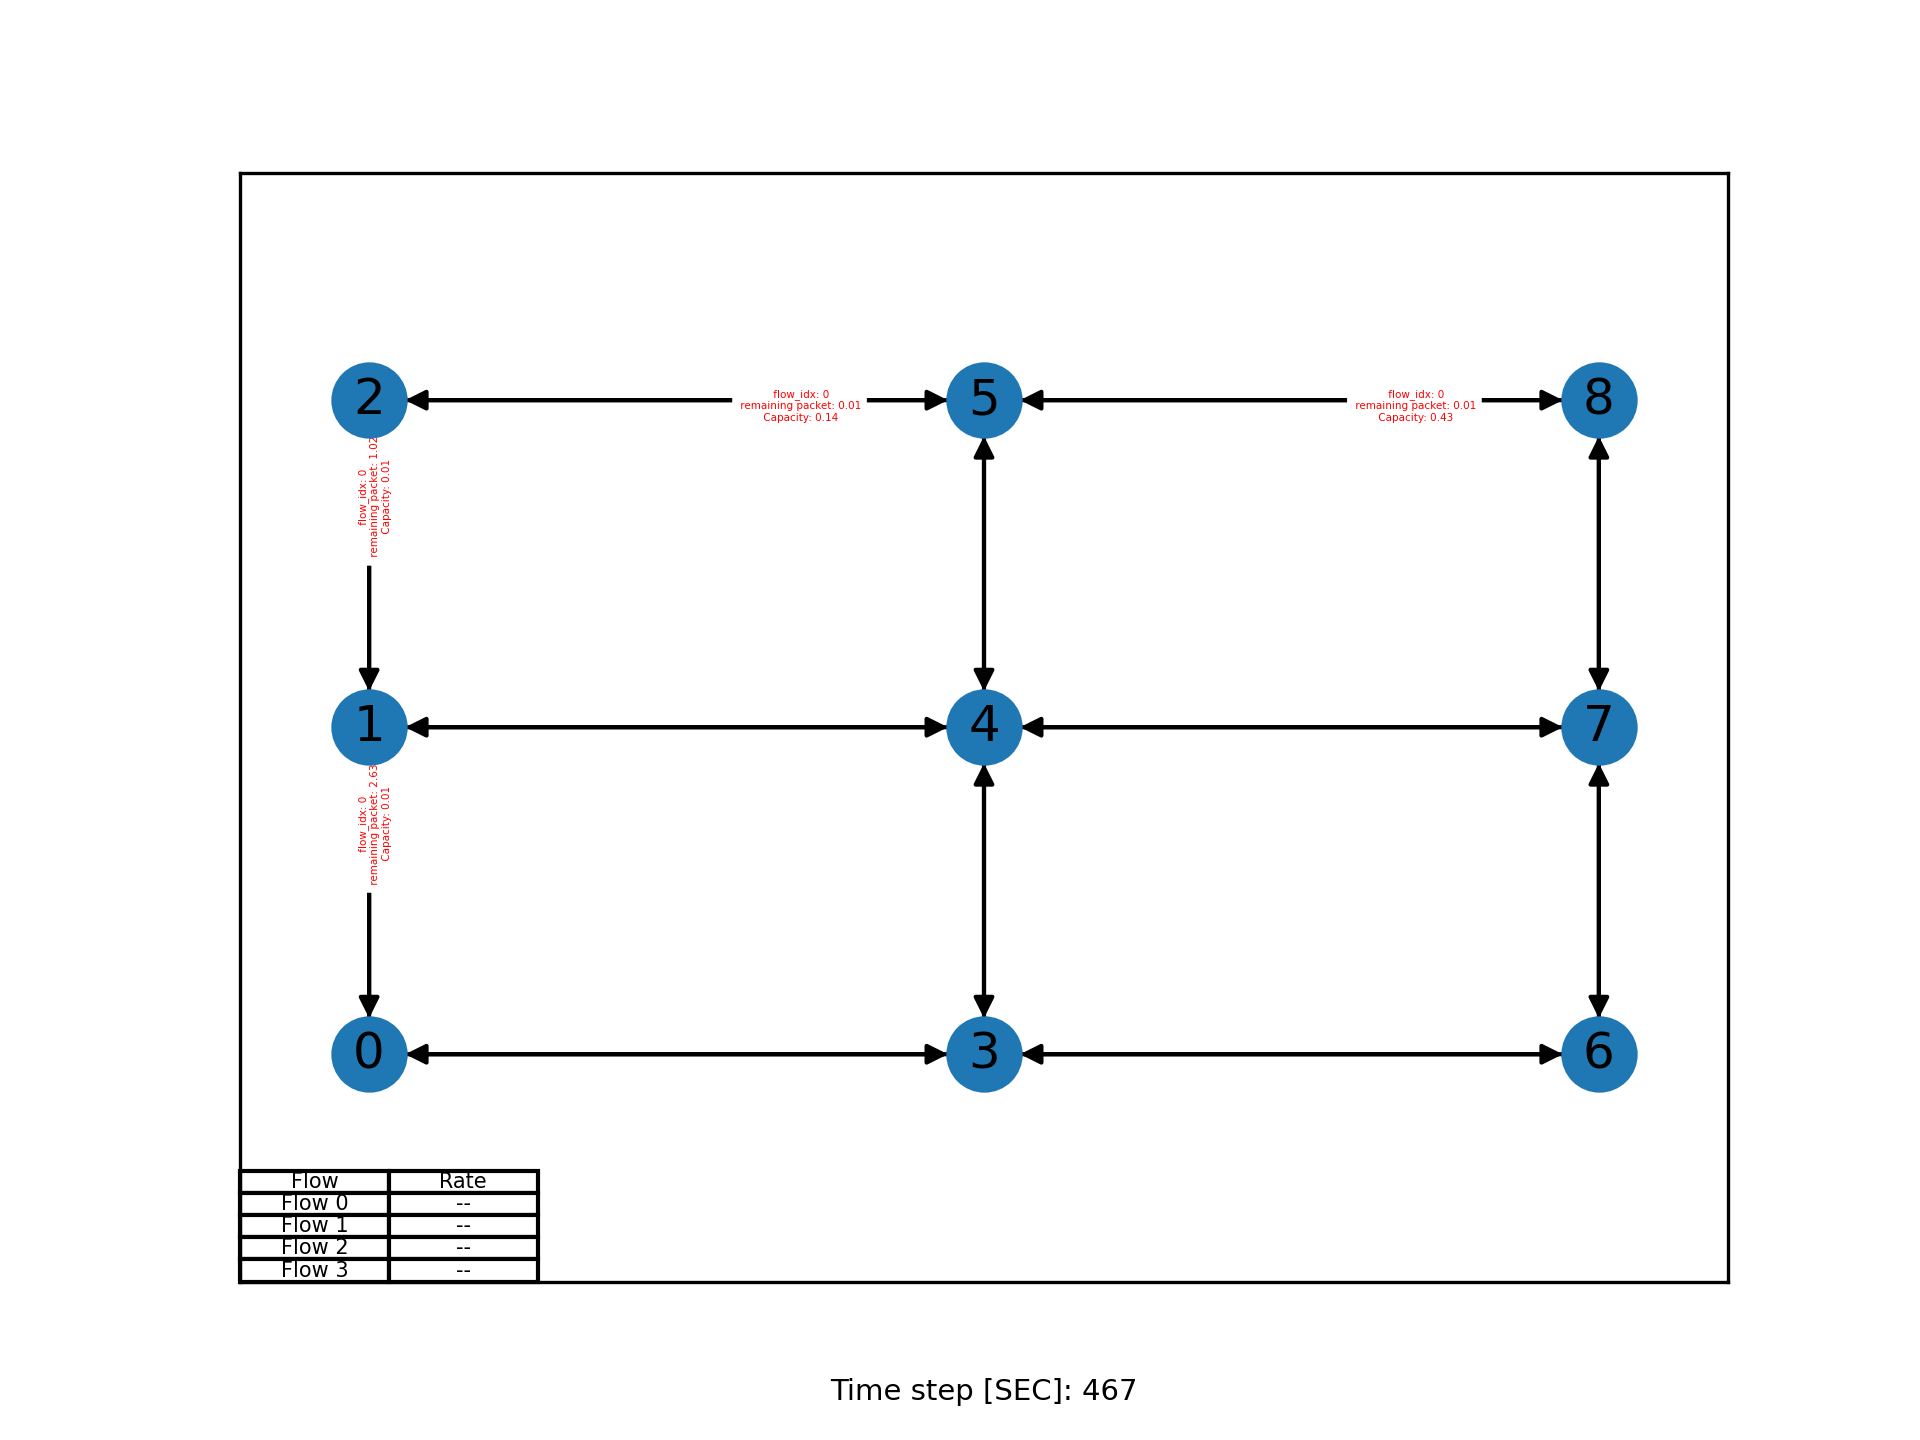
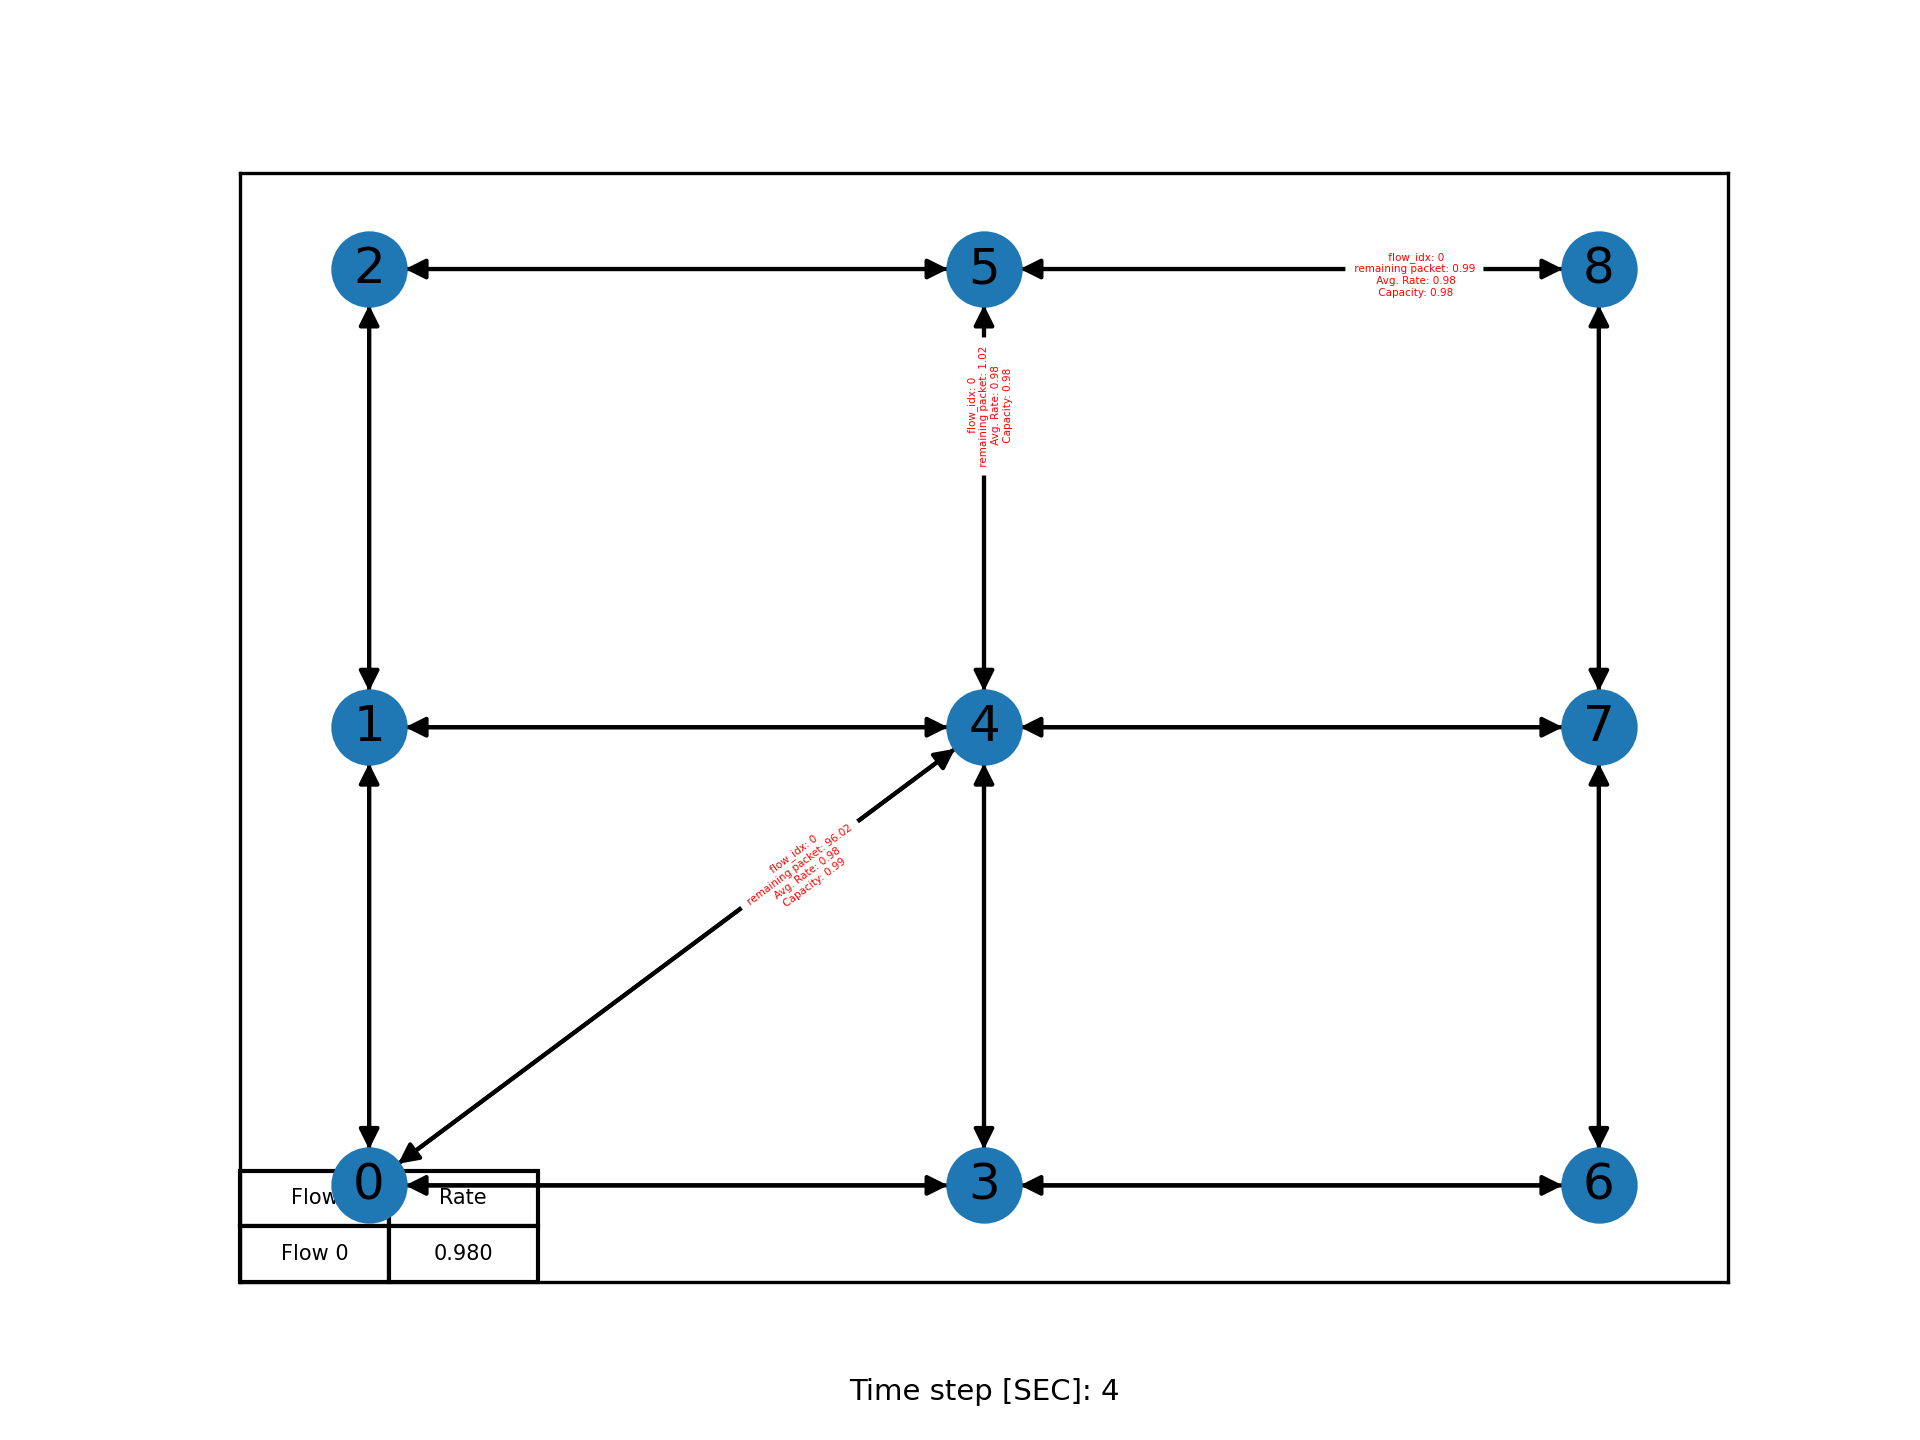
chnaged simulation to work with milisecond, changed channel  power for both slotted and un slotted to be the same, changed __getobseration to give the last interfence in the time step and to the avg over all time steps in a slot

diff --git a/DIAMOND/test/inference_vs_competitors_simple.py b/DIAMOND/test/inference_vs_competitors_simple.py
@@ -41,47 +41,51 @@ if __name__ == "__main__":
 
     # # BW matrix [MHz]
     # C = 1 * np.ones((N, N))
-    # C = 1 * np.array([  [1, 100, 1, 1],  #means how connects to who
-    #                     [100, 1, 1, 100],
+    # C = 1 * np.array([  [1, 1, 1, 1],  #means how connects to who
     #                     [1, 1, 1, 1],
-    #                     [1, 100, 1, 1]])
+    #                     [1, 1, 1, 1],
+    #                     [1, 1, 1, 1]])
     #------------------------------------------------------------------------
    
     N = 9
 
     # Adjacency matrix
-    A = np.array([[0, 1, 0, 1, 0, 0, 0, 0, 0],
+    A = np.array([[0, 1, 0, 1, 1, 0, 0, 0, 0],
                   [1, 0, 1, 0, 1, 0, 0, 0, 0],
                   [0, 1, 0, 0, 0, 1, 0, 0, 0],
                   [1, 0, 0, 0, 1, 0, 1, 0, 0],
-                  [0, 1, 0, 1, 0, 1, 0, 1, 0],
+                  [1, 1, 0, 1, 0, 1, 0, 1, 0],
                   [0, 0, 1, 0, 1, 0, 0, 0, 1],
                   [0, 0, 0, 1, 0, 0, 0, 1, 0],
                   [0, 0, 0, 0, 1, 0, 1, 0, 1],
                   [0, 0, 0, 0, 0, 1, 0, 1, 0]])
 
     
-    P = [(0.0, 0), (0.0, 0.01), (0.0, 0.02),
-         (0.1, 0), (0.1, 0.01), (0.1, 0.02),
-         (0.2, 0), (0.2, 0.01), (0.2, 0.02)]
+    # P = [(0.0, 0), (0.0, 0.01), (0.0, 0.02),
+    #      (0.1, 0), (0.1, 0.01), (0.1, 0.02),
+    #      (0.2, 0), (0.2, 0.01), (0.2, 0.02)]
    
-    # P = [(0, 0), (0, 1), (0, 2),
-    #      (1, 0), (1, 1), (1, 2),
-    #      (2, 0), (2, 1), (2, 2)]
+    P = [(0, 0), (0, 1), (0, 2),
+         (1, 0), (1, 1), (1, 2),
+         (2, 0), (2, 1), (2, 2)]
     # BW matrix
-    C = 1 * np.ones((N, N))
+    C = 1e3 * np.ones((N, N)) # in KiloHertz
     #------------------------------------------------------------------------
 
 
     # number of paths to choose from
-    action_size = 10                      #search space limitaions?
+    action_size = 1000                      #search space limitaions?
 
-    # flow demands
+    # flow demands in KiloByte
     F = [
-        {"source": 0, "destination": 8, "packets": 10, "time_constrain": 10 , 'flow_idx': 0 },
-        {"source": 0, "destination": 8, "packets": 10, "time_constrain": 10, 'flow_idx': 1}, #Packets [MegaBytes]
-        {"source": 0, "destination": 8, "packets": 10, "time_constrain": 10, 'flow_idx': 2}, #Packets [MegaBytes]
-        {"source": 0, "destination": 8, "packets": 10000, "time_constrain": 10, 'flow_idx': 3}
+        {"source": 0, "destination": 8, "packets": 10 *1e3, "time_constrain": 10 , 'flow_idx': 0 },
+        {"source": 0, "destination": 7, "packets": 100 *1e3, "time_constrain": 10, 'flow_idx': 1}, #Packets [MegaBytes]
+        {"source": 0, "destination": 6, "packets": 500*1e3, "time_constrain": 10, 'flow_idx': 2}, #Packets [MegaBytes]
+        {"source": 0, "destination": 5, "packets": 1000*1e3, "time_constrain": 10, 'flow_idx': 3},
+        {"source": 0, "destination": 4, "packets": 700 *1e3, "time_constrain": 10 , 'flow_idx': 4 },
+        {"source": 0, "destination": 3, "packets": 300 *1e3, "time_constrain": 10, 'flow_idx': 5}, #Packets [MegaBytes]
+        {"source": 0, "destination": 2, "packets": 150*1e3, "time_constrain": 10, 'flow_idx': 6}, #Packets [MegaBytes]
+        {"source": 0, "destination": 1, "packets": 50*1e3, "time_constrain": 10, 'flow_idx': 7}
     ]
 
     slotted_env = SlottedGraphEnvPower( adjacency_matrix=A,
@@ -92,11 +96,12 @@ if __name__ == "__main__":
                                         reward_weights=reward_weights,
                                         telescopic_reward = True,
                                         direction = 'minimize',
-                                        slot_duration=60,          # [in SEC]
-                                        Tot_num_of_timeslots = 60, # [in Minutes]
+                                        slot_duration = int(1 * 1e3),          # [in SEC ]
+                                        Tot_num_of_timeslots = 1000,         # [num of time slots]
                                         render_mode = False,
                                         trx_power_mode='gain',
                                         channel_gain = 1,
+                                        # channel_manual_gain = [100,200,3,400,500,600],
                                         simualte_residauls = False)
 
     UNslotted_env = SlottedGraphEnvPower( adjacency_matrix=A,
@@ -107,11 +112,12 @@ if __name__ == "__main__":
                                         reward_weights=reward_weights,
                                         telescopic_reward = True,
                                         direction = 'minimize',
-                                        slot_duration=60*60,          # [in SEC]
+                                        slot_duration=int(1000 * 1e3),          # [in SEC]
                                         Tot_num_of_timeslots = 1, # [in Minutes]
                                         render_mode = False,
                                         trx_power_mode='gain',
                                         channel_gain = 1,
+                                        # channel_manual_gain = [100,200,3,400,500,600],
                                         simualte_residauls = False)    
 
     slotted_diamond = SlottedDIAMOND(grrl_model_path=MODEL_PATH)
@@ -123,11 +129,11 @@ if __name__ == "__main__":
     # plot rates
     time_axis = list(range(len(Tot_rates_sloted)))
     plt.figure()
-    plt.plot(time_axis[4:], Tot_rates_sloted[4:], linestyle='-', color='b', label='Slotted Avg Rate [Avg over all flows]')
-    plt.plot(time_axis[4:], Tot_rates_UNslotted[4:], linestyle='-', color='r', label='UnSlotted Avg Rate [Avg over all flows]')
+    plt.plot(time_axis[:], Tot_rates_sloted[:], linestyle='-', color='b', label='Slotted Avg Rate [Avg over all flows]')
+    plt.plot(time_axis[:], Tot_rates_UNslotted[:], linestyle='-', color='r', label='UnSlotted Avg Rate [Avg over all flows]')
     # Add labels and title
-    plt.xlabel('Time (seconds)')
-    plt.ylabel('Average Rate [Mbps]')
+    plt.xlabel('Time (mili seconds)')
+    plt.ylabel('Average Rate [Kbps]')
     plt.title('Average Rates Over Time')
     plt.legend()
 

diff --git a/DIAMOND/environment/slotted_graph_env_power.py b/DIAMOND/environment/slotted_graph_env_power.py
@@ -277,13 +277,15 @@ class SlottedGraphEnvPower:
         """
         L = self.num_edges // 2
         power_mode = self.kwargs.get('trx_power_mode', 'equal')
-        assert power_mode in ('equal', 'rayleigh', 'rayleigh_gain', 'steps', 'gain'), f'Invalid power mode. got {power_mode}'
+        assert power_mode in ('equal', 'rayleigh', 'rayleigh_gain', 'steps', 'gain', 'manual_gain'), f'Invalid power mode. got {power_mode}'
         channel_coeff = np.ones(L)
         channel_gain = np.ones(L)
         if 'rayleigh' in power_mode:
             channel_coeff = np.random.rayleigh(scale=self.kwargs.get('rayleigh_scale', 1), size=L)
         if 'gain' in power_mode:
-            channel_gain = self.kwargs.get('channel_gain', np.random.uniform(low=0.1, high=10, size=L)) * np.ones(L)
+            channel_gain = self.kwargs.get('channel_gain', np.random.uniform(low=1, high=10, size=L)) * np.ones(L)
+        if 'manual_gain' in power_mode:
+            channel_gain = self.kwargs.get('channel_manual_gain', np.random.uniform(low=0.01, high=1000, size=L)) * np.ones(L)
         p_max = self.kwargs.get('max_trx_power', 1) * np.ones(L)
         trx_power = channel_gain * np.minimum(p_max, 1 / channel_coeff)  # P_l
         if power_mode == 'steps':
@@ -821,14 +823,14 @@ class SlottedGraphEnvPower:
         """
         # interference
         if self.current_link_interference_list_4EachTimeStep:
-            interference = self.edge_list_to_adj_mat(np.mean(self.current_link_interference_list_4EachTimeStep, axis=0))
+            interference = self.edge_list_to_adj_mat(self.current_link_interference_list_4EachTimeStep[-1]) # take the last interference
         else: 
             interference = np.zeros((self.num_nodes,self.num_nodes))
         
         # capacity
         #normalized_capacity = self.edge_list_to_adj_mat(self.current_link_capacity)
         if self.current_link_capacity_list_4EachTimeStep:
-            normalized_capacity = self.edge_list_to_adj_mat(np.mean(self.current_link_capacity_list_4EachTimeStep, axis=0))
+            normalized_capacity = self.edge_list_to_adj_mat(self.current_link_capacity_list_4EachTimeStep[-1]) # take the last capacity
         else: 
             normalized_capacity = np.zeros((self.num_nodes,self.num_nodes))            
 
